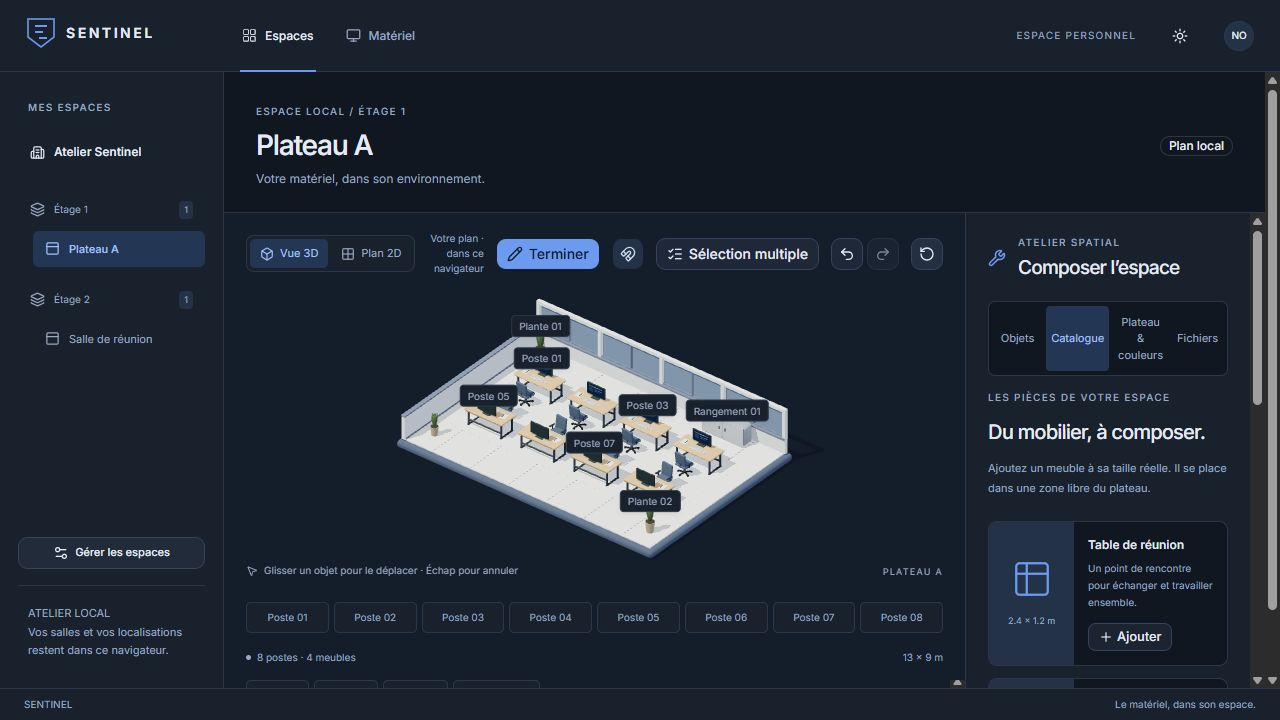
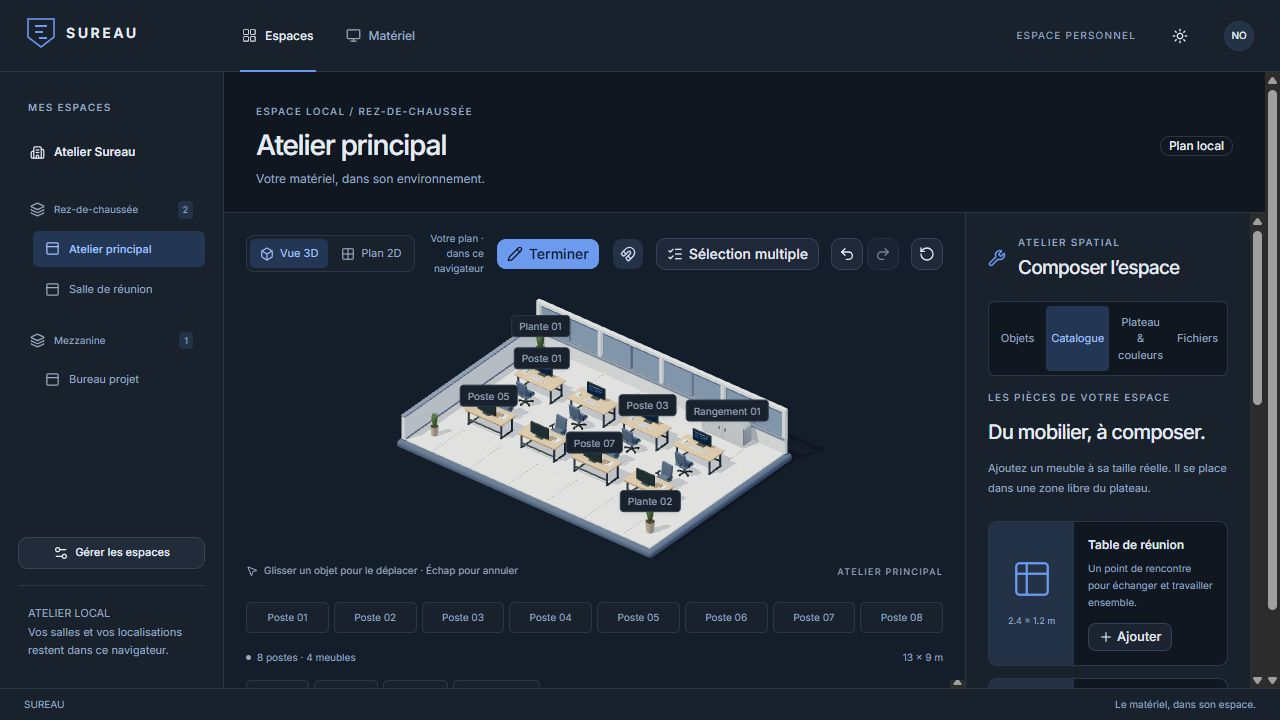
docs: refresh Sureau branding and application screenshots

diff --git a/README.md b/README.md
@@ -1,8 +1,8 @@
 <p align="center">
-  <img src="frontend/public/sentinel.svg" alt="Logo Sentinel" width="56" height="62" />
+  <img src="frontend/public/sureau.svg" alt="Logo Sureau" width="56" height="62" />
 </p>
 
-<h1 align="center">Sentinel</h1>
+<h1 align="center">Sureau</h1>
 
 <p align="center">
   <strong>Le matériel, dans son espace.</strong><br />
@@ -17,20 +17,20 @@
   <a href="frontend/README.md">Guide frontend</a>
 </p>
 
-Sentinel associe un inventaire de matériel à un atelier spatial en **2D et 3D**. L’objectif : retrouver les équipements dans leur environnement et donner à chaque équipe les outils pour dessiner ses salles, organiser ses postes et personnaliser son plateau.
+Sureau associe un inventaire de matériel à un atelier spatial en **2D et 3D**. L’objectif : retrouver les équipements dans leur environnement et donner à chaque équipe les outils pour dessiner ses salles, organiser ses postes et personnaliser son plateau.
 
 Le projet est en cours de refonte : une API **Java / Spring Boot** gère les matériels, et une interface **React / TypeScript** propose l’exploration du parc et l’aménagement des espaces. Les plans et les associations spatiales sont actuellement conservés dans le navigateur.
 
 ## Aperçu
 
-![Atelier Sentinel en 3D, avec postes de travail, navigation entre les étages et catalogue de mobilier](frontend/docs/images/atelier-3d.jpg)
+![Atelier Sureau en 3D, avec postes de travail, navigation entre les étages et catalogue de mobilier](frontend/docs/images/atelier-3d.jpg)
 
 *Un atelier manipulable : sélectionner un poste rapproche la caméra ; le mode édition permet de déplacer les objets et d’ajouter du mobilier à sa taille réelle.*
 
 <details>
   <summary><strong>Voir le plan 2D et la sélection multiple</strong></summary>
 
-![Plan 2D de Sentinel avec plusieurs postes sélectionnés et des actions de groupe](frontend/docs/images/plan-2d.jpg)
+![Plan 2D de Sureau avec plusieurs postes sélectionnés et des actions de groupe](frontend/docs/images/plan-2d.jpg)
 
 Le plan 2D et les listes d’objets offrent aussi une navigation au clavier. Une sélection peut être déplacée, pivotée, dupliquée ou transférée vers une autre salle.
 
@@ -39,7 +39,7 @@ Le plan 2D et les listes d’objets offrent aussi une navigation au clavier. Une
 <details>
   <summary><strong>Voir l’organisation des salles et des étages</strong></summary>
 
-![Gestion des étages de Sentinel, avec les salles rattachées à chaque niveau](frontend/docs/images/organisation-espaces.jpg)
+![Gestion des étages de Sureau, avec les salles rattachées à chaque niveau](frontend/docs/images/organisation-espaces.jpg)
 
 Les salles peuvent être créées, copiées, renommées et déplacées entre les étages. L’organisation complète est exportable dans un fichier JSON.
 
@@ -65,15 +65,15 @@ Les vues 2D et 3D partagent le même plan. L’aimantation à une grille de 25 c
 **Prérequis :** Node.js **22.12 ou supérieur** et pnpm **12.14.0**.
 
 ```sh
-git clone https://github.com/Nadjide/sentinel.git
-cd sentinel/frontend
+git clone https://github.com/Nadjide/sureau.git
+cd sureau/frontend
 pnpm install --frozen-lockfile
 pnpm dev
 ```
 
 Ouvrir l’adresse affichée par Vite, généralement **http://127.0.0.1:5173**.
 
-L’atelier spatial est utilisable sans connexion à l’API. Pour consulter les matériels, un service compatible doit être disponible : le proxy de développement relaie `/api` vers **http://127.0.0.1:8080** par défaut. Pour choisir une autre adresse, copier `frontend/.env.example` dans `frontend/.env.local` et adapter `SENTINEL_API_TARGET` avant de relancer Vite.
+L’atelier spatial est utilisable sans connexion à l’API. Pour consulter les matériels, un service compatible doit être disponible : le proxy de développement relaie `/api` vers **http://127.0.0.1:8080** par défaut. Pour choisir une autre adresse, copier `frontend/.env.example` dans `frontend/.env.local` et adapter `SUREAU_API_TARGET` avant de relancer Vite.
 
 Une API indisponible produit un message explicite. L’interface conserve l’accès à l’espace local et ne remplace pas l’inventaire par des matériels fictifs.
 
@@ -116,12 +116,14 @@ Les versions résolues du frontend sont conservées dans le [lockfile pnpm](fron
 
 Placer un équipement sur un poste ne change pas son statut métier. Les objets dessinés dans la scène sont du mobilier illustratif ; un équipement n’y est localisé qu’après une association explicite.
 
+Les sauvegardes créées avant le changement de nom sont récupérées automatiquement sur la même origine navigateur. Les nouvelles écritures utilisent les clés Sureau et conservent les anciens contenus. Pour changer de domaine ou de navigateur, exporter puis importer l’espace en JSON.
+
 Les plans ne sont pas encore synchronisés entre navigateurs ou utilisateurs. L’import / export permet de conserver ou de transférer une implantation ; l’interface signale les échecs de stockage. Un espace peut contenir jusqu’à **8 étages et 32 salles**, avec **64 postes et 64 meubles par salle**.
 
 ## Architecture
 
 ```text
-sentinel/
+sureau/
 ├── frontend/
 │   ├── docs/images/           # Captures du projet
 │   ├── public/               # Identité visuelle
